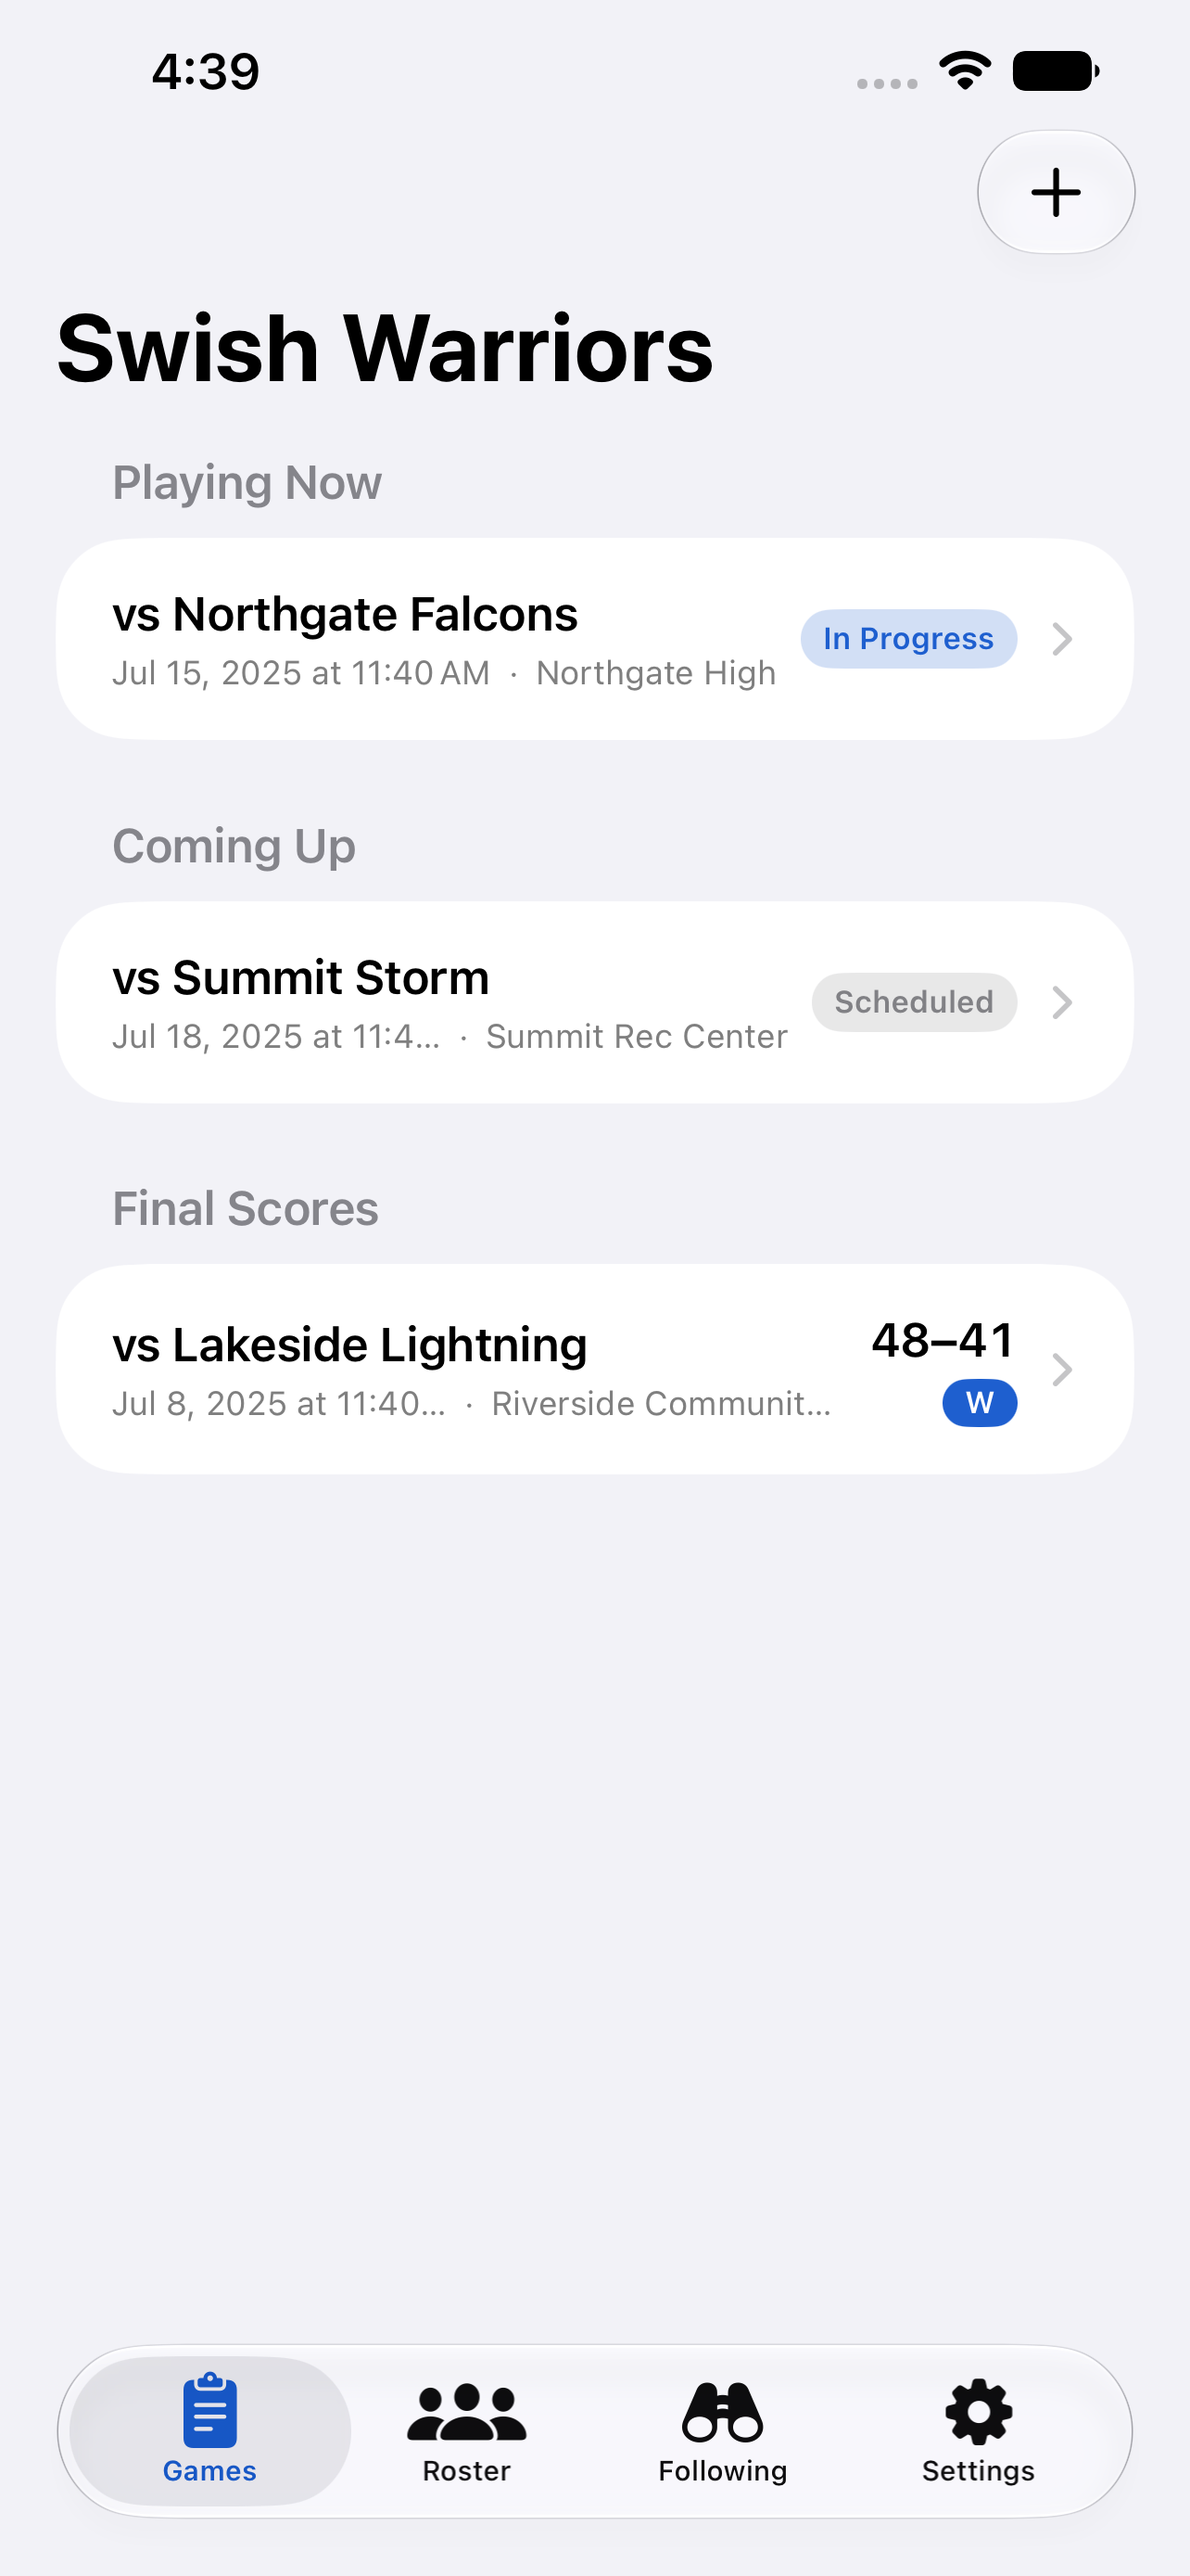
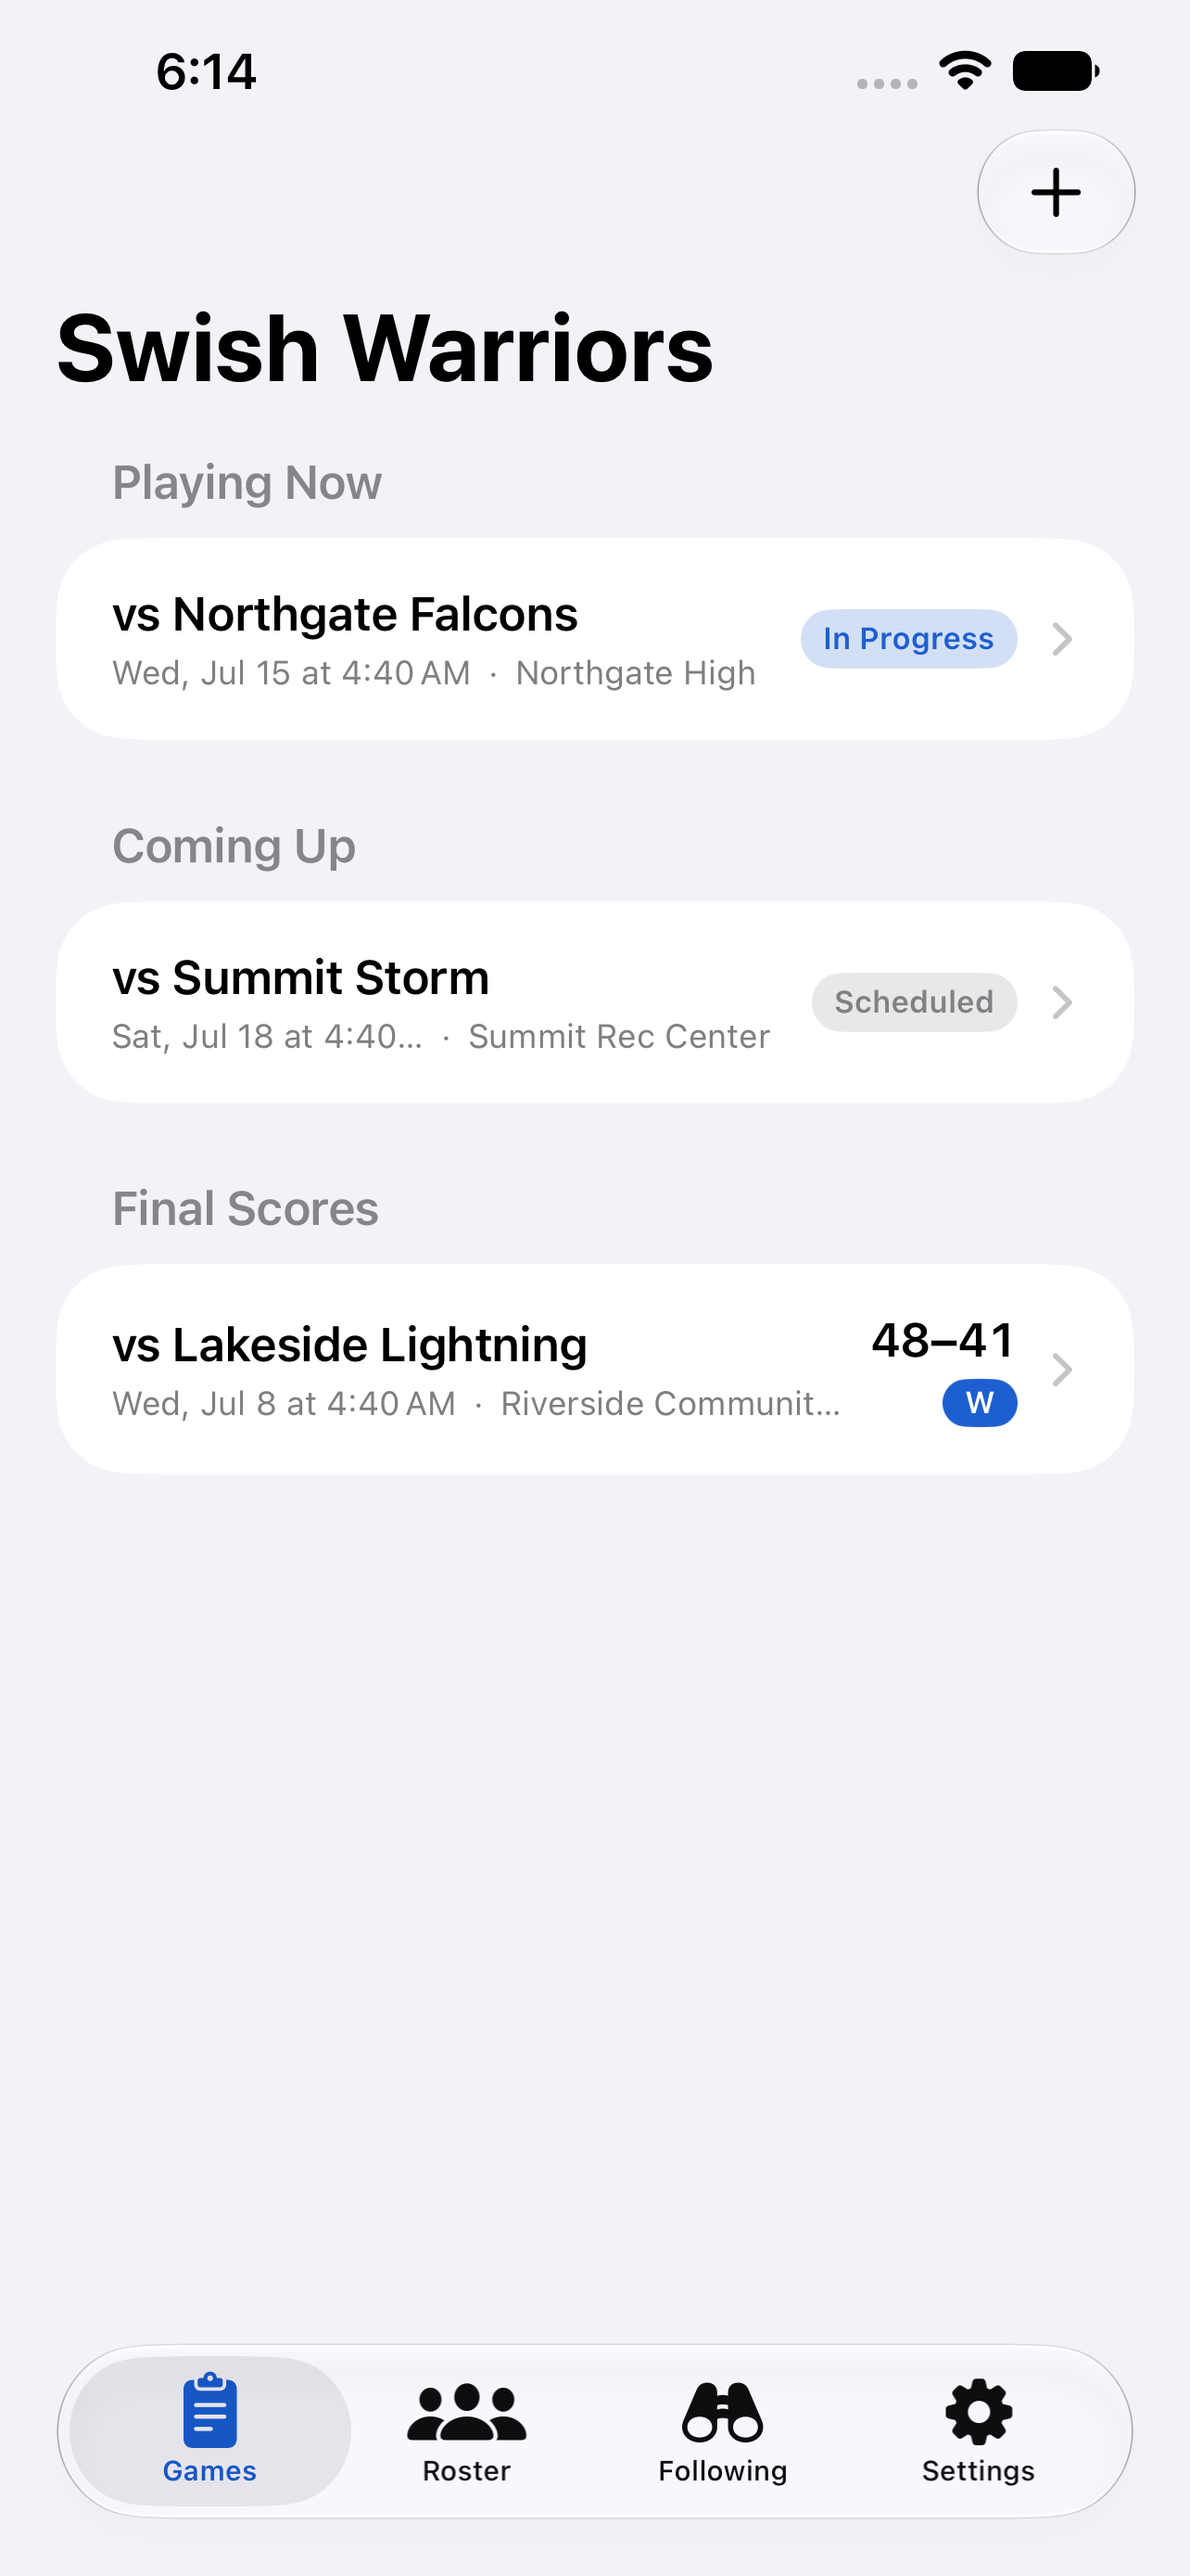
Show the day of the week on game dates (#67) (#73)
Youth games get scheduled by weekday far more than by date — "is that the
Saturday one?" — so the day is worth the space wherever a game is listed.

- `Date.gameDay` / `.gameDayAndTime` for detail screens: "Tue, Aug 4, 2026".
  The weekday leads rather than trailing the year, because a trailing weekday
  collides with the time ("Aug 4, 2026 at 11:40 AM Tue").
- `Date.gameDayCompact` for list rows: "Tue, Aug 4 at 11:40 AM". Adding the
  weekday to the full date pushed the tip-off time into an ellipsis, and on a
  schedule the time matters more than a year you can infer. Games from a past
  season keep their year, so an old game is never ambiguous.
- The date now outranks the gym name when the two compete for width: "which
  day, what time" is the question the row exists to answer.

Also rolls the demo reference date into the current season. Rows drop the year
in-season, so a stale reference date both truncated the time in screenshots and
dated the App Store listing.

Closes #67.

Claude-Session: https://claude.ai/code/session_01XKw3Fyr61m8RtwfRppQofX

diff --git a/CourtsideHoopStatsTests/GameDateFormatTests.swift b/CourtsideHoopStatsTests/GameDateFormatTests.swift
@@ -1,0 +1,84 @@
+import Testing
+import Foundation
+@testable import CourtsideHoopStats
+
+/// Tests for the game date formatting (#67).
+///
+/// Locale-dependent by nature, so these assert on the *parts* that must be
+/// present rather than an exact string — an en_US-only assertion would fail on
+/// any other device region for no good reason.
+struct GameDateFormatTests {
+
+    /// 2026-08-04 was a Tuesday.
+    private var tuesday: Date {
+        var parts = DateComponents()
+        parts.year = 2026; parts.month = 8; parts.day = 4
+        parts.hour = 11; parts.minute = 40
+        return Calendar.current.date(from: parts)!
+    }
+
+    @Test func gameDayIncludesAbbreviatedWeekday() {
+        let formatted = tuesday.gameDay
+        let weekday = tuesday.formatted(.dateTime.weekday(.abbreviated))
+        #expect(formatted.contains(weekday),
+                "\(formatted) should contain the weekday \(weekday)")
+    }
+
+    @Test func gameDayIncludesMonthDayAndYear() {
+        let formatted = tuesday.gameDay
+        #expect(formatted.contains("2026"))
+        #expect(formatted.contains("4"))
+        // Abbreviated month, not the full name — rows are tight.
+        #expect(formatted.contains(tuesday.formatted(.dateTime.month(.abbreviated))))
+    }
+
+    /// The weekday leads: a trailing weekday collides with the time.
+    @Test func weekdayComesBeforeTheMonth() throws {
+        let formatted = tuesday.gameDay
+        let weekday = tuesday.formatted(.dateTime.weekday(.abbreviated))
+        let month = tuesday.formatted(.dateTime.month(.abbreviated))
+        let weekdayIndex = try #require(formatted.range(of: weekday)?.lowerBound)
+        let monthIndex = try #require(formatted.range(of: month)?.lowerBound)
+        #expect(weekdayIndex < monthIndex)
+    }
+
+    @Test func dayAndTimeAddsTheStartTime() {
+        let formatted = tuesday.gameDayAndTime
+        #expect(formatted.hasPrefix(tuesday.gameDay))
+        #expect(formatted.contains(tuesday.formatted(date: .omitted, time: .shortened)))
+    }
+}
+
+/// The compact list-row form (#67 follow-up).
+struct GameDateCompactTests {
+
+    private func date(year: Int) -> Date {
+        var parts = DateComponents()
+        parts.year = year; parts.month = 8; parts.day = 4
+        parts.hour = 11; parts.minute = 40
+        return Calendar.current.date(from: parts)!
+    }
+
+    /// The row also carries a location, so the year is dropped in-season to
+    /// keep the tip-off time from truncating.
+    @Test func currentYearOmitsTheYear() {
+        let thisYear = Calendar.current.component(.year, from: Date())
+        let formatted = date(year: thisYear).gameDayCompact
+        #expect(!formatted.contains("\(thisYear)"))
+        #expect(formatted.contains(date(year: thisYear)
+            .formatted(.dateTime.weekday(.abbreviated))))
+    }
+
+    /// A game from a past season keeps its year so it's never ambiguous.
+    @Test func pastYearKeepsTheYear() {
+        let past = Calendar.current.component(.year, from: Date()) - 2
+        #expect(date(year: past).gameDayCompact.contains("\(past)"))
+    }
+
+    @Test func compactAlwaysKeepsTheTime() {
+        let thisYear = Calendar.current.component(.year, from: Date())
+        let sample = date(year: thisYear)
+        #expect(sample.gameDayCompact
+            .contains(sample.formatted(date: .omitted, time: .shortened)))
+    }
+}

diff --git a/CourtsideHoopStats/Helpers/DesignSystem.swift b/CourtsideHoopStats/Helpers/DesignSystem.swift
@@ -213,3 +213,40 @@ struct ScoreboardView: View {
         .frame(maxWidth: .infinity)
     }
 }
+
+// MARK: - Game dates (#67)
+
+extension Date {
+    /// A game's date with its **3-letter weekday**, e.g. `Tue, Aug 4, 2026`.
+    ///
+    /// Youth games are scheduled by weekday far more than by date — "is that
+    /// the Saturday one?" — so the day is worth the space wherever a game is
+    /// listed. The weekday leads rather than trailing the year, because a
+    /// trailing weekday collides with the time ("Aug 4, 2026 at 11:40 AM Tue").
+    var gameDay: String {
+        formatted(.dateTime.weekday(.abbreviated).month(.abbreviated).day().year())
+    }
+
+    /// The same, plus the start time: `Tue, Aug 4, 2026 at 11:40 AM`. For
+    /// detail screens, where a full-width row has space for it.
+    var gameDayAndTime: String {
+        "\(gameDay) at \(formatted(date: .omitted, time: .shortened))"
+    }
+
+    /// List-row form: `Tue, Aug 4 at 11:40 AM`.
+    ///
+    /// Drops the year for games in the current year. A game row also carries a
+    /// location, and adding the weekday to the full date pushed the tip-off
+    /// time into an ellipsis — the time matters more on a schedule than a year
+    /// you can already infer. Past seasons keep the year, so an old game is
+    /// never ambiguous.
+    var gameDayCompact: String {
+        let calendar = Calendar.current
+        let sameYear = calendar.component(.year, from: self)
+            == calendar.component(.year, from: Date())
+        let day = sameYear
+            ? formatted(.dateTime.weekday(.abbreviated).month(.abbreviated).day())
+            : gameDay
+        return "\(day) at \(formatted(date: .omitted, time: .shortened))"
+    }
+}

diff --git a/CourtsideHoopStats/Views/GamesListView.swift b/CourtsideHoopStats/Views/GamesListView.swift
@@ -258,7 +258,11 @@ struct GameRowView: View {
                 Text(game.opponent.isEmpty ? "New Game" : "vs \(game.opponent)")
                     .font(.headline)
                 HStack(spacing: 6) {
-                    Text(game.date.formatted(date: .abbreviated, time: .shortened))
+                    // When these compete for width the gym name gives way, not
+                    // the tip-off time — "which day, what time" is the question
+                    // this row exists to answer.
+                    Text(game.date.gameDayCompact)
+                        .layoutPriority(1)
                     if !game.location.isEmpty {
                         Text("·")
                         Text(game.location)

diff --git a/CourtsideHoopStats/Models/DemoData.swift b/CourtsideHoopStats/Models/DemoData.swift
@@ -45,7 +45,11 @@ enum DemoData {
     }
 
     /// A fixed reference date so screenshots are reproducible.
-    private static let refDate = Date(timeIntervalSince1970: 1_752_000_000) // 2025-07-08
+    /// Fixed so screenshots are reproducible, but kept in the **current
+    /// season**: game rows drop the year in-season, so a stale reference date
+    /// would both truncate the tip-off time and date the App Store listing.
+    /// Roll this forward when it falls behind the calendar year.
+    private static let refDate = Date(timeIntervalSince1970: 1_783_510_800) // 2026-07-08
 
     // MARK: - Random test game (easter egg: long-press "+" on the Games list)
 

diff --git a/CourtsideHoopStats/Views/GameSummaryView.swift b/CourtsideHoopStats/Views/GameSummaryView.swift
@@ -185,7 +185,7 @@ struct GameSummaryView: View {
 
     private var detailsSection: some View {
         Section("Details") {
-            LabeledContent("Date", value: game.date.formatted(date: .abbreviated, time: .shortened))
+            LabeledContent("Date", value: game.date.gameDayAndTime)
             LabeledContent("Home / Away", value: game.isHome ? "Home" : "Away")
             if !game.league.isEmpty { LabeledContent("League", value: game.league) }
             if !game.location.isEmpty {

diff --git a/CourtsideHoopStats/Views/GameDetailView.swift b/CourtsideHoopStats/Views/GameDetailView.swift
@@ -41,7 +41,7 @@ struct GameDetailView: View {
                 LabeledContent("Jersey") {
                     JerseyIndicator(color: store.team.jersey(isHome: game.isHome))
                 }
-                LabeledContent("Date", value: game.date.formatted(date: .abbreviated, time: .shortened))
+                LabeledContent("Date", value: game.date.gameDayAndTime)
             }
 
             Section {
